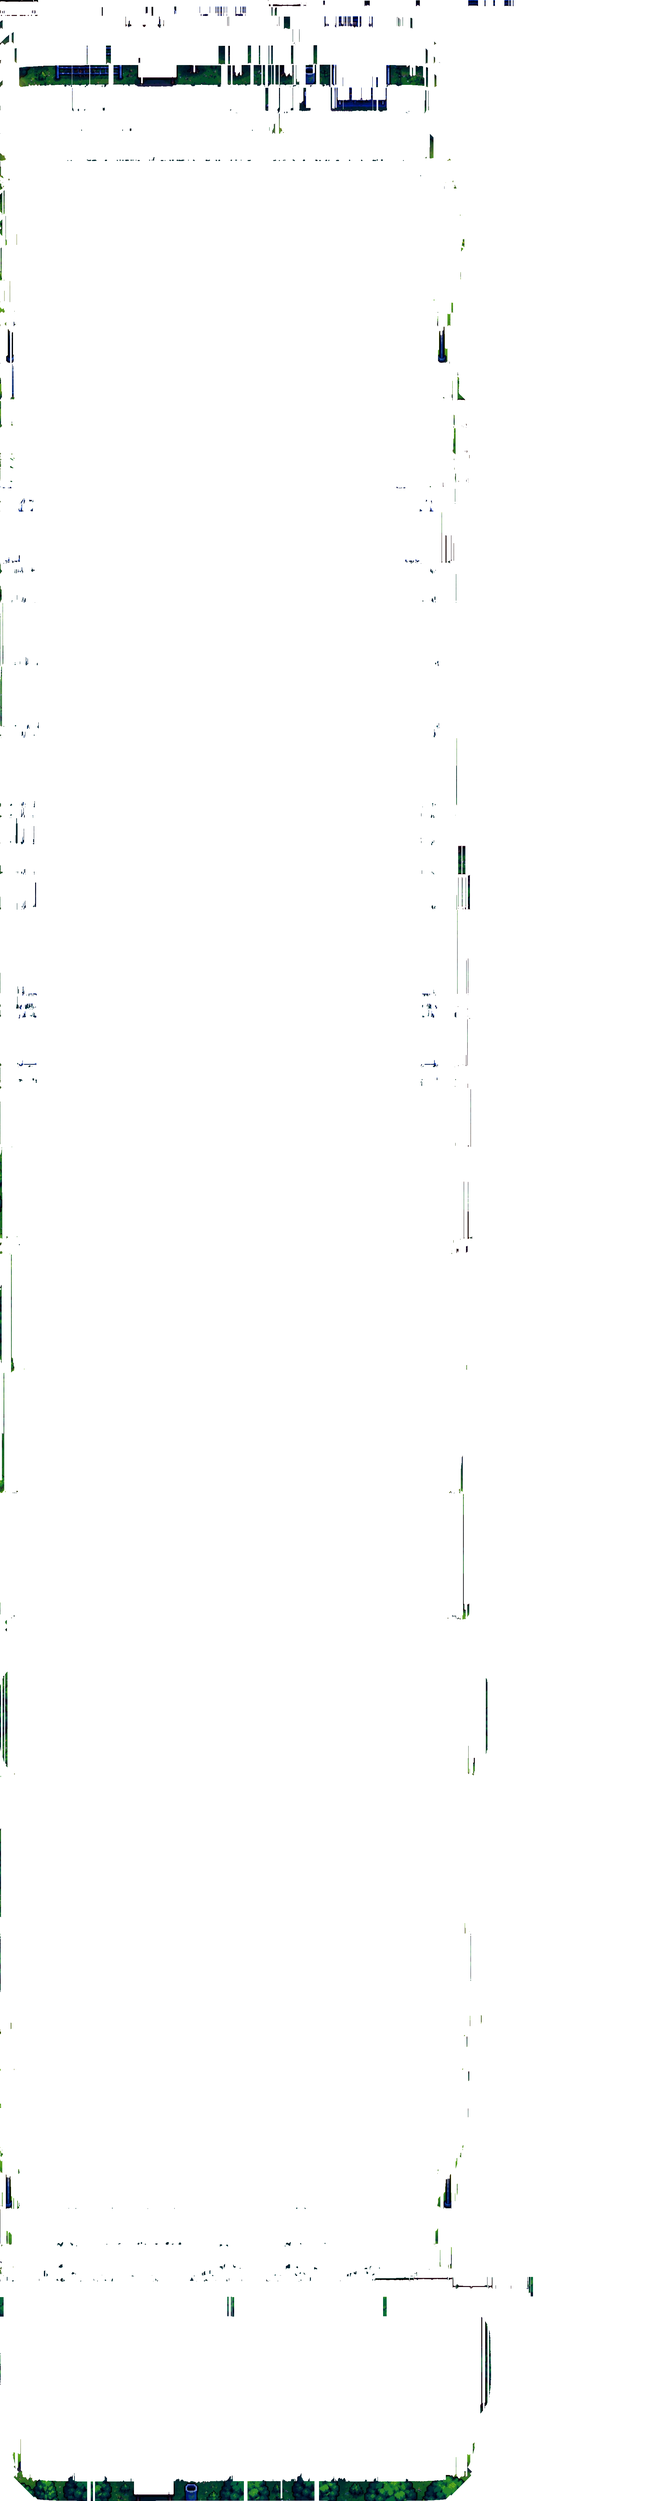
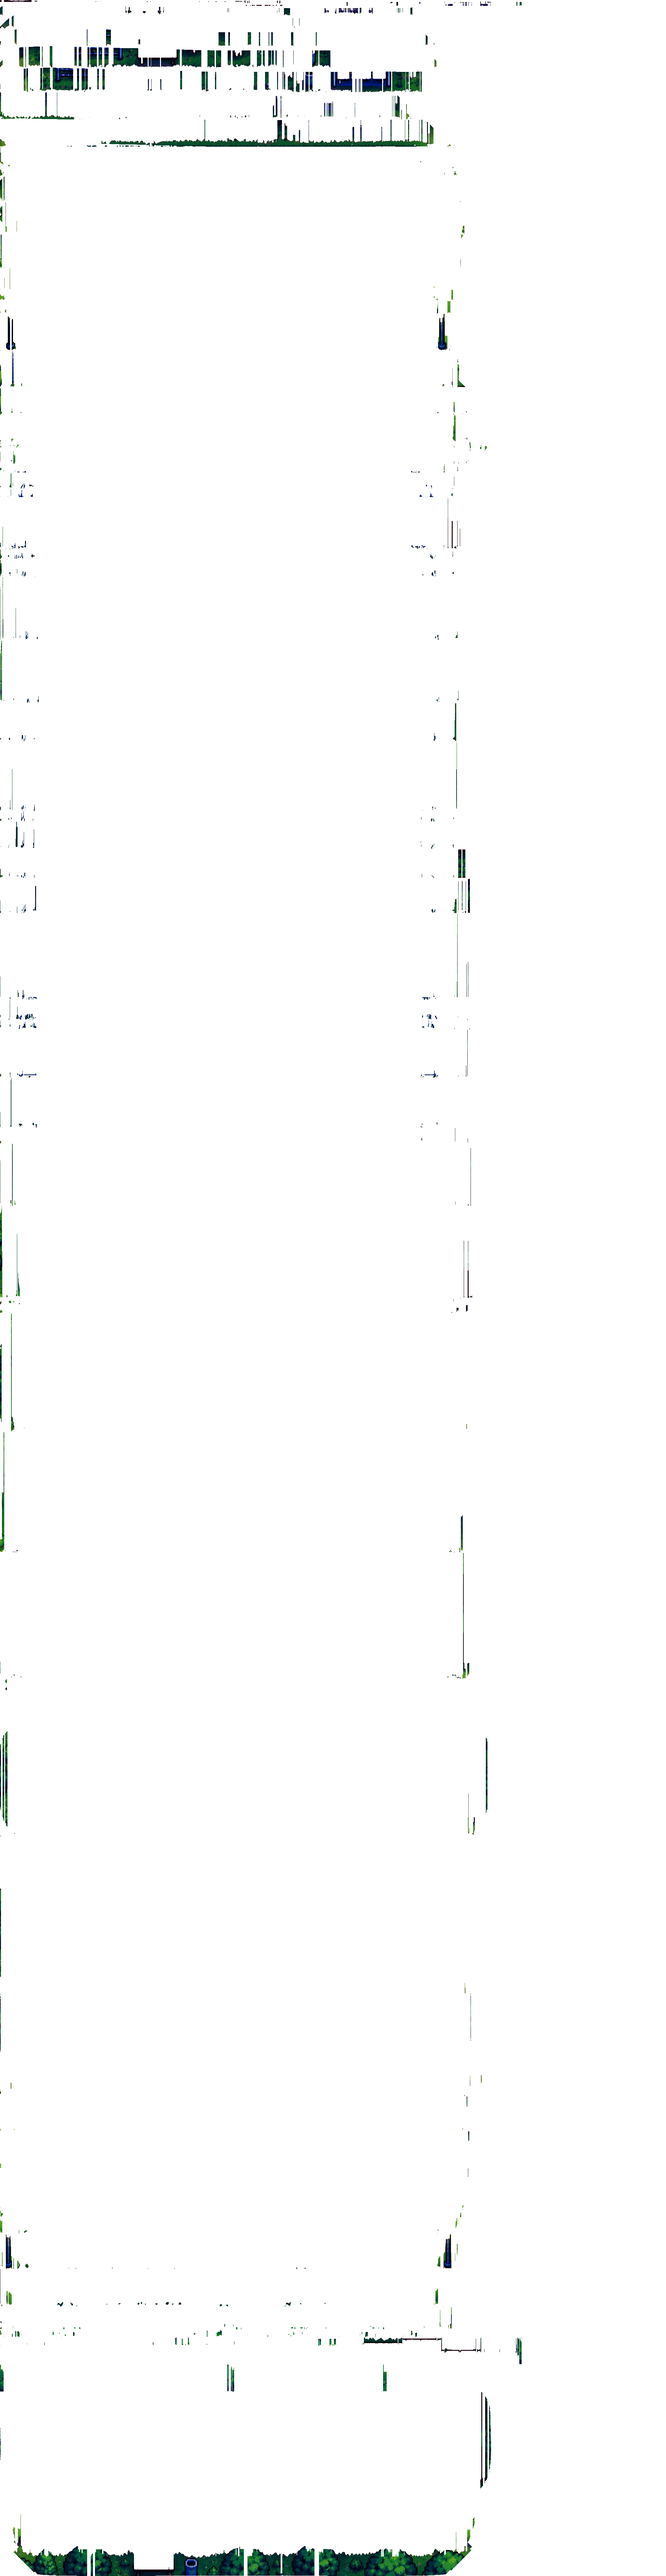
BIEG: tree canopies over the path hide the runners; top lane runs in front of the dugout
Claude-Session: https://claude.ai/code/session_01Y9XNosS9qXxorLv9Jh2D4n

diff --git a/bieg.js b/bieg.js
@@ -24,7 +24,7 @@
   fetch('bieg_fg.json').then((r) => r.json()).then((j) => { FGJ = j.fg; buildLanes(j.path); });
   // the line round the pitch and the lamp heads, in picture units
   const PL = 252, PR = 1418, PT = 188, PB = 742;
-  const LANES = [-13, -4.5, 4.5, 13];
+  const LANES = [-9, -3, 3, 9];
   const LAMPS = [[172, 148], [1497, 148], [157, 636], [1512, 640]];
   const NAMES = { 14: 'SOWA', 10: 'ARTUR', 7: 'SZYMON', 27: 'DOMINIK' };
   const SPR_H = 72;
